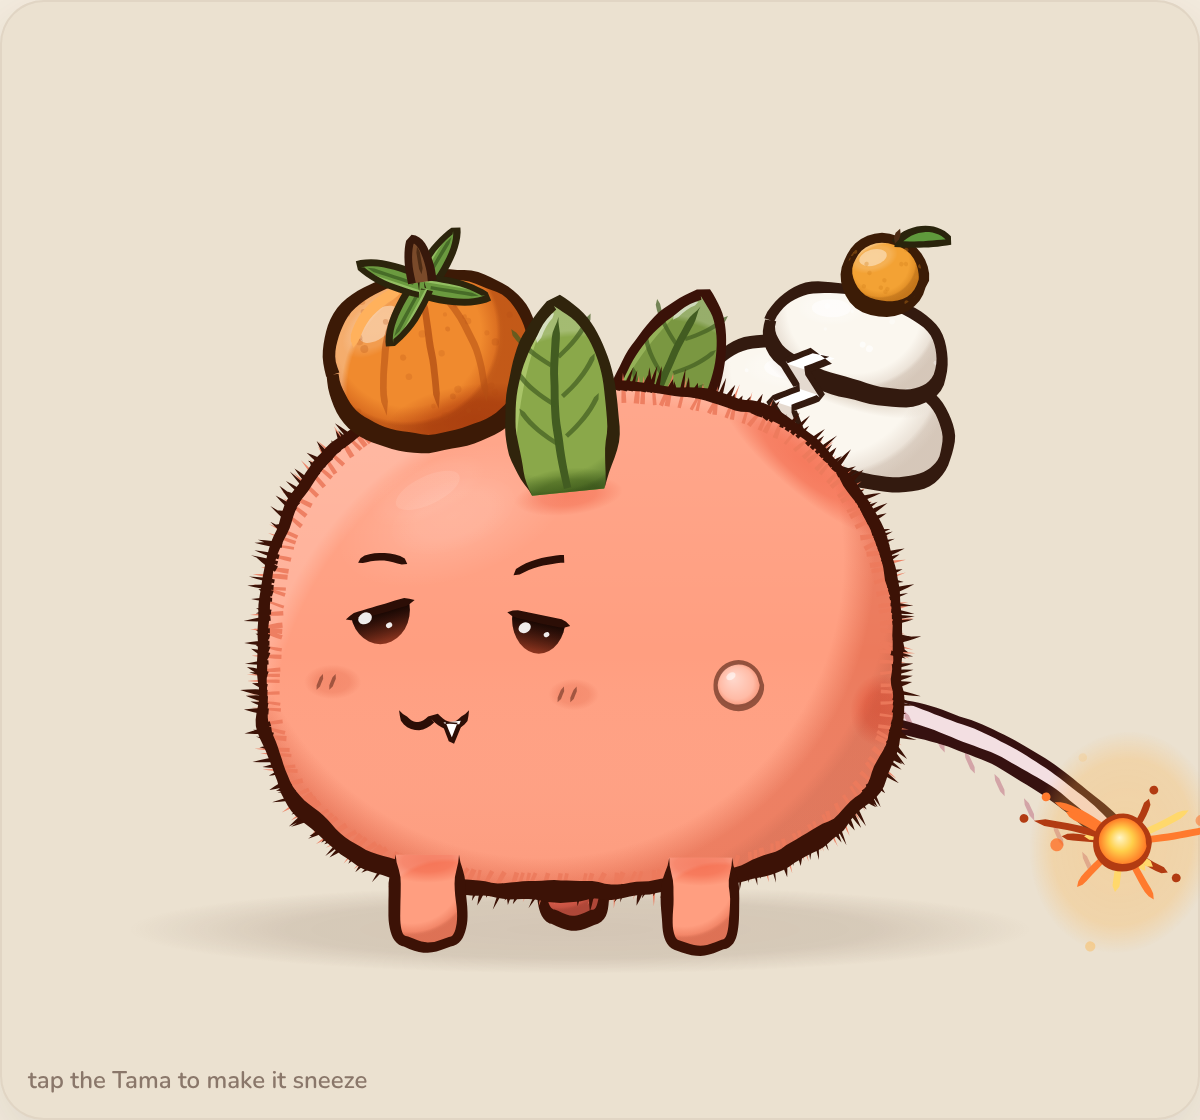
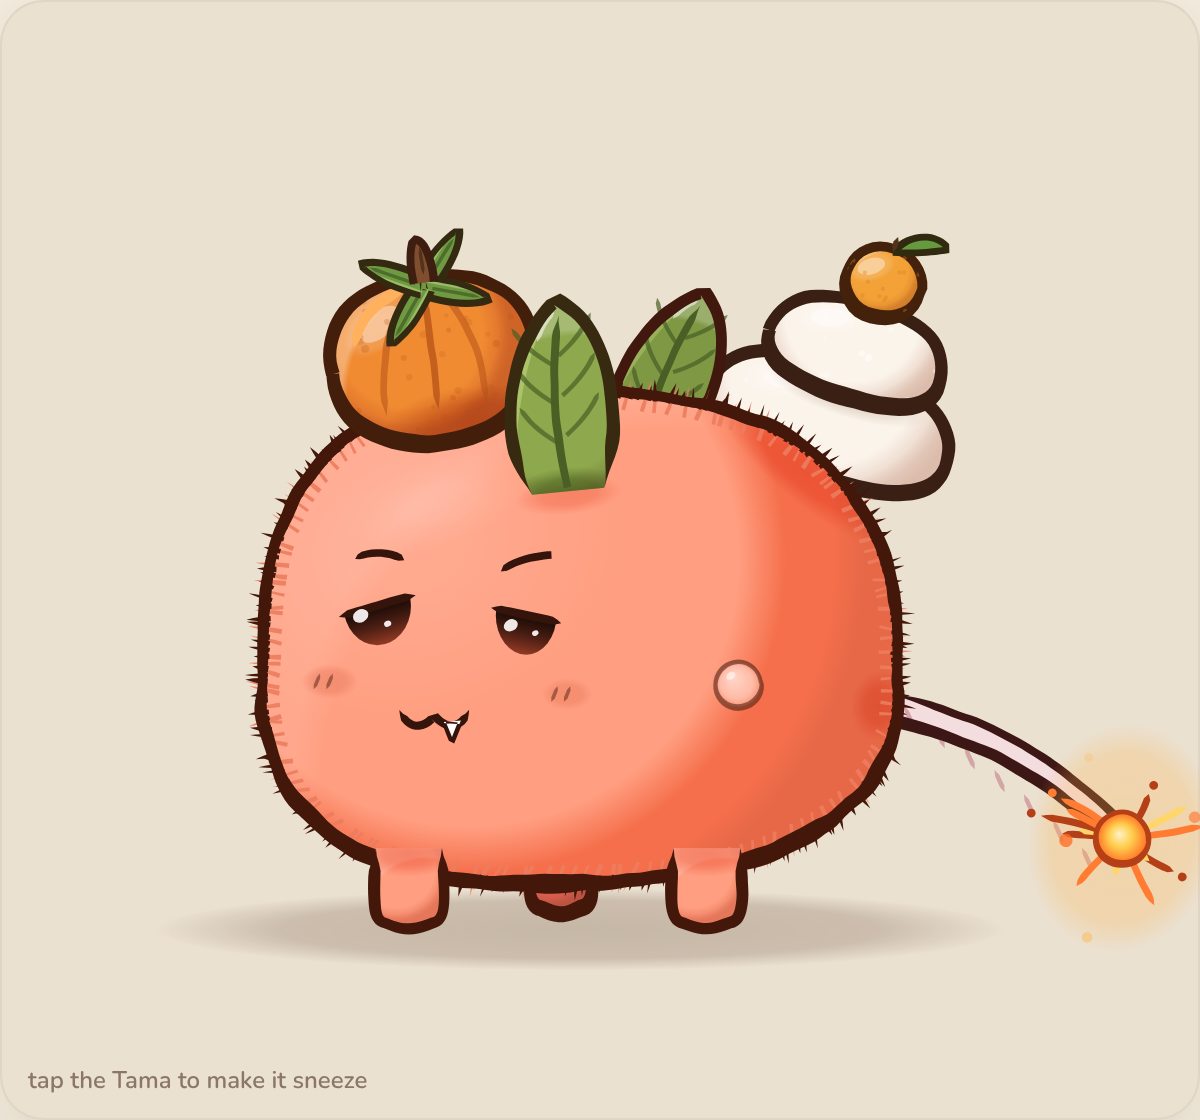
Push Tama finish toward the Axie reference
Egg-shaped body, one airbrushed saturated shade over the rear and belly
with a deeper underside band and a lit top-front, cleaner uniform ink,
nub legs, bigger eyes, palette-tinted part shadows and a faint body
glaze for colour cohesion. Updated preview renders.

Claude-Session: https://claude.ai/code/session_01UaA5G3pXeArrFX5fidoQVA

diff --git a/tama/index.html b/tama/index.html
@@ -146,7 +146,7 @@ class Shape {
 // Build a pressure ribbon Path2D around a flattened polyline.
 // opts: w (base width), heavy (extra weight on undersides 0..1), jitter (px), seed, taper ('none'|'both'|'start'|'end'), wobble (width noise 0..1)
 function ribbon(fl, opts = {}) {
-  const { w = 3, heavy = .5, jitter = .6, seed = 1, taper = 'none', wobble = .25, out = .55 } = opts;
+  const { w = 3, heavy = .5, jitter = .6, seed = 1, taper = 'none', wobble = .12, out = .55 } = opts;
   const pts = fl.pts, n = pts.length, L = fl.length || 1;
   const outer = [], inner = [];
   for (let i = 0; i < n; i++) {
@@ -171,6 +171,7 @@ function ribbon(fl, opts = {}) {
 }
 // memo for geometry built from stable keys
 const MEMO = new Map();
+let CUR_PAL = null;   // palette of the creature being drawn, lets part shadows share its hue
 function memo(key, build) { let v = MEMO.get(key); if (v === undefined) { v = build(); MEMO.set(key, v); } return v; }
 
 // ink an outline: fill a ribbon in colour
@@ -203,9 +204,10 @@ function crescent(ctx, clipPath, cx, cy, r, color, a = 1, ox = -.18, oy = -.22, 
 // Axie-style layered shading inside a clip: soft crescent, a harder core shadow a little further in,
 // a thin rim light on the lit side and (optionally) a crisp highlight patch with a soft glow.
 function shading(ctx, clip, cx, cy, r, o = {}) {
-  const { shade, deep, light = '#ffffff', ox = -.18, oy = -.28, inner = .64, soft = .14, coreA = .5, rimA = .28, hi = null, hiA = .32 } = o;
-  if (shade) crescent(ctx, clip, cx, cy, r, shade, 1, ox, oy, inner, soft);
-  if (deep) crescent(ctx, clip, cx, cy, r, deep, coreA, ox * 1.1, oy * 1.1, Math.min(.97, inner + .14), .035);
+  let { shade, deep, light = '#ffffff', ox = -.18, oy = -.28, inner = .64, soft = .14, coreA = .5, rimA = .28, hi = null, hiA = .32 } = o;
+  if (CUR_PAL) { if (shade) shade = mix(shade, CUR_PAL.shade, .16); if (deep) deep = mix(deep, CUR_PAL.shade, .16); }
+  if (shade) crescent(ctx, clip, cx, cy, r, shade, 1, ox, oy, inner, soft * 1.3);
+  if (deep) crescent(ctx, clip, cx, cy, r, deep, coreA * .75, ox * 1.1, oy * 1.1, Math.min(.97, inner + .14), .09);
   if (rimA > 0) crescent(ctx, clip, cx, cy, r, light, rimA, -ox * 1.2, -oy * 1.1, .9, .05);
   if (hi) { const [hx, hy, hrx, hry, hrot = -.55] = hi; ctx.save(); ctx.clip(clip); softEllipse(ctx, hx, hy, hrx * 1.8, hry * 1.9, light, hiA * .45, .3, hrot); ctx.fillStyle = alpha(light, hiA); ctx.beginPath(); ctx.ellipse(hx, hy, hrx, hry, hrot, 0, TAU); ctx.fill(); ctx.restore(); }
 }
@@ -254,9 +256,10 @@ function bodyPoint(th, edge, seed) {
   const c = Math.cos(th), s = Math.sin(th), n = 2.45;
   let x = Math.sign(c) * Math.pow(Math.abs(c), 2 / n);
   let y = Math.sign(s) * Math.pow(Math.abs(s), 2 / n);
-  const yy = y > 0 ? y * .9 : y * (1.02 + .035 * Math.max(0, -x));   // flatter, heavier bottom; head end a touch taller
+  let yy = y > 0 ? y * .9 : y * (1.03 + .04 * Math.max(0, -x));   // flatter, heavier bottom; head end a touch taller
+  yy *= 1 - .07 * (x + 1) / 2;                                         // egg: the rear sits a little lower than the head
   const xx = x * (1 + .07 * Math.max(0, y)) * (1 + .03 * Math.max(0, -y) * (1 - Math.abs(x))); // a little wider low down
-  let r = 1 + .012 * fbm(seed, th * 1.9 + 7, 2);           // hand-drawn irregularity
+  let r = 1 + .007 * fbm(seed, th * 1.9 + 7, 2);           // hand-drawn irregularity, kept subtle so the line stays confident
   if (edge === 'wool') r += .046 * Math.pow(Math.abs(Math.sin(th * 5 + .6)), .65) - .015;
   return { x: BODY.rx * xx * r, y: BODY.ry * yy * r };
 }
@@ -287,14 +290,14 @@ function makeAnchors() {
   const rear = surface(0.18);         // rear, just under the midline
   const headSide = { x: -4, y: -54, nx: -.12, ny: -.99, ang: -1.69, lean: -0.12 };   // on the near side of the head
   const headSideFar = { x: 20, y: -66, nx: .22, ny: -.97, ang: -1.35, lean: 0.22 };
-  const face = { x: -36, y: -4, eyeF: { x: -63, y: -14 }, eyeB: { x: -13, y: -11 }, mouth: { x: -46, y: 21 }, cheekF: { x: -78, y: 9 }, cheekB: { x: -2, y: 13 }, eyeR: 11 };
-  const legs = [{ x: -48, y: 72, far: false }, { x: -2, y: 66, far: true }, { x: 38, y: 73, far: false }];
+  const face = { x: -36, y: -4, eyeF: { x: -64, y: -15 }, eyeB: { x: -17, y: -12 }, mouth: { x: -46, y: 21 }, cheekF: { x: -79, y: 9 }, cheekB: { x: -4, y: 13 }, eyeR: 12.5 };
+  const legs = [{ x: -54, y: 70, far: false }, { x: -6, y: 66, far: true }, { x: 40, y: 70, far: false }];
   return { horn, topRear, rear, headSide, headSideFar, face, legs, spot: { x: 50, y: 10 }, ground: { x: 0, y: 84 } };
 }
 
 /* ---------- body painter ---------- */
 function drawLeg(ctx, leg, pal, body) {
-  const w = leg.far ? 18 : 20, h = leg.far ? 17 : 19, x = leg.x, y = leg.y;
+  const w = leg.far ? 18 : 21, h = leg.far ? 14 : 15, x = leg.x, y = leg.y;
   const base = leg.far ? shadeOf(pal.shade, .12) : pal.body, shade = leg.far ? shadeOf(pal.shade, .3) : pal.shade;
   const s = new Shape().M(x - w / 2, y - 8).C(x - w / 2 - 1, y + h * .5, x - w / 2 - 2, y + h, x - w / 2 + 3, y + h + 1)
     .C(x - 1, y + h + 3.5, x + 1, y + h + 3.5, x + w / 2 - 3, y + h + 1).C(x + w / 2 + 2, y + h, x + w / 2 + 1, y + h * .5, x + w / 2, y - 8);
@@ -303,7 +306,7 @@ function drawLeg(ctx, leg, pal, body) {
   const clip = new Path2D(p); clip.closePath();
   shading(ctx, clip, x, y + h * .4, h * 1.1, { shade, deep: mix(shade, pal.ink, .2), ox: -.25, oy: -.45, inner: .6, soft: .16, coreA: .4, rimA: .18 });
   if (!leg.far) { ctx.save(); ctx.clip(clip); ctx.globalCompositeOperation = 'multiply'; softEllipse(ctx, x, y - 6, w * .8, 7, pal.shade, .5, .5); ctx.restore(); }
-  ink(ctx, s, pal.inkBody, { w: 3.3, heavy: .6, jitter: .4, seed: 31 + x, taper: leg.far ? 'none' : 'both', step: 1.6 });
+  ink(ctx, s, pal.inkBody, { w: 3.6, heavy: .45, jitter: .25, seed: 31 + x, taper: leg.far ? 'none' : 'both', step: 1.6 });
 }
 function drawBody(ctx, genome, pal, anchors, seats, pose) {
   const edge = genome.bodyEdge, seed = genome.seed;
@@ -312,9 +315,12 @@ function drawBody(ctx, genome, pal, anchors, seats, pose) {
   // base
   ctx.fillStyle = pal.body; ctx.fill(clip);
   // matte two-tone: soft shade crescent on the bottom third, plus a faint top-light gradient
-  shading(ctx, clip, 0, 0, 100, { shade: pal.shade, deep: mix(pal.shade, pal.ink, .2), ox: -.12, oy: -.3, inner: .76, soft: .08, coreA: .38, rimA: .2, hi: [-48, -52, 11, 4.5, -.45], hiA: .09 });
-  ctx.save(); ctx.clip(clip); const g = ctx.createLinearGradient(0, -84, 0, 84); g.addColorStop(0, 'rgba(255,255,255,.10)'); g.addColorStop(.5, 'rgba(255,255,255,0)'); g.addColorStop(1, alpha(pal.shade, .18)); ctx.fillStyle = g; ctx.fillRect(-120, -100, 240, 200); ctx.restore();
-  sheen(ctx, clip, -40, -44, 38, 20, .12, -.35);
+  const shadeSat = adjust(pal.shade, -.02, .1);
+  ctx.save(); ctx.clip(clip); softEllipse(ctx, -52, -34, 70, 58, '#ffffff', .13, .75, -.3); ctx.restore();   // soft light on the top-front
+  crescent(ctx, clip, 0, 0, 100, shadeSat, 1, -.35, -.3, .68, .12);                       // airbrushed shade over the rear half and belly
+  crescent(ctx, clip, 0, 0, 100, mix(shadeSat, pal.ink, .18), .45, -.3, -.3, .88, .08);  // deeper band right at the underside
+  crescent(ctx, clip, 0, 0, 100, '#ffffff', .1, .32, .42, .9, .08);                       // thin rim light on the lit side
+  sheen(ctx, clip, -44, -48, 30, 14, .09, -.35);
   // tama spot: a small matte pearl on the rear flank
   const sp = anchors.spot;
   const pearl = new Path2D(); pearl.arc(sp.x, sp.y, 7, 0, TAU);
@@ -326,16 +332,16 @@ function drawBody(ctx, genome, pal, anchors, seats, pose) {
   for (const s of seats) cast(ctx, clip, s.x, s.y, s.rx * .9, s.ry * .8, pal.shade, s.a * 1.1, s.rot);
   // edge texture
   if (edge === 'fuzzy') {
-    ctx.fillStyle = alpha(pal.shade, .9); ctx.fill(memo('fzin:' + seed, () => flickPath(sil, { seed: seed + 11, spacing: 3.2, len: 4.5, inset: 5.5, lean: .5, w: 1.3, side: 1 })));
-    ctx.fillStyle = pal.inkBody; ctx.fill(memo('fzout:' + seed, () => flickPath(sil, { seed: seed + 12, spacing: 2.3, len: 5.5, inset: 1.6, lean: .55, w: 1.55 })));
-    ink(ctx, sil, pal.inkBody, { w: 3.2, heavy: .75, jitter: .9, seed, key: 'bodyink-f' + seed, wobble: .35 });
+    ctx.fillStyle = alpha(pal.shade, .9); ctx.fill(memo('fzin:' + seed, () => flickPath(sil, { seed: seed + 11, spacing: 4.2, len: 4, inset: 5.5, lean: .5, w: 1.2, side: 1 })));
+    ctx.fillStyle = pal.inkBody; ctx.fill(memo('fzout:' + seed, () => flickPath(sil, { seed: seed + 12, spacing: 2.9, len: 4.6, inset: 1.8, lean: .5, w: 1.45 })));
+    ink(ctx, sil, pal.inkBody, { w: 3.5, heavy: .5, jitter: .6, seed, key: 'bodyink-f' + seed, wobble: .25 });
   } else if (edge === 'wool') {
-    ink(ctx, sil, pal.inkBody, { w: 3.7, heavy: .55, jitter: .4, seed, key: 'bodyink-w' + seed, wobble: .25 });
+    ink(ctx, sil, pal.inkBody, { w: 3.9, heavy: .45, jitter: .3, seed, key: 'bodyink-w' + seed, wobble: .15 });
     // little curls just inside the bumps
     ctx.fillStyle = alpha(pal.inkBody, .5);
     ctx.fill(memo('wool:' + seed, () => { const p = new Path2D(); const r = rng(seed + 9); const pts = sil.pts; for (let i = 0; i < pts.length; i += 9) { const q = pts[i]; if (r() < .35) continue; const d = 6 + r() * 3; const cx = q.x - q.nx * d, cy = q.y - q.ny * d; const rr = 2.2 + r() * 1.4; const a0 = Math.atan2(q.ny, q.nx) + .9; p.moveTo(cx + Math.cos(a0) * rr, cy + Math.sin(a0) * rr); p.arc(cx, cy, rr, a0, a0 + 3.6); p.arc(cx, cy, rr - .9, a0 + 3.6, a0, true); p.closePath(); } return p; }));
   } else {
-    ink(ctx, sil, pal.inkBody, { w: 4.1, heavy: .7, jitter: .5, seed, key: 'bodyink-s' + seed });
+    ink(ctx, sil, pal.inkBody, { w: 4.2, heavy: .45, jitter: .3, seed, key: 'bodyink-s' + seed, wobble: .1 });
   }
   return clip;
 }
@@ -485,7 +491,7 @@ drawEars.calyxLeaf = part({ seat: { rx: 15, ry: 6, a: .35 }, both: true }, (ctx,
     brush(ctx, new Shape().M(0, 1).C(-2, -14, -1, -30, 2, -42), vein, 2, { taper: 'end', jitter: .2 });
     for (let i = 0; i < 3; i++) { const y = -10 - i * 10; brush(ctx, new Shape().M(-1, y).C(-5, y - 3, -8, y - 6, -10, y - 10), alpha(vein, .7), 1.2, { taper: 'end' }); brush(ctx, new Shape().M(1, y - 2).C(5, y - 5, 8, y - 8, 10, y - 12), alpha(vein, .7), 1.2, { taper: 'end' }); }
     brush(ctx, new Shape().M(-4, -36).C(-3, -39, -1, -42, 1, -43), 'rgba(255,255,255,.55)', 1.6);
-    ink(ctx, leaf, far ? pal.ink : inkFor(g, pal.ink), { w: 2.8, heavy: .4, jitter: .4, seed: 41, taper: 'both', step: 1.8 });
+    ink(ctx, leaf, far ? pal.ink : inkFor(g, pal.ink), { w: 3.1, heavy: .35, jitter: .3, seed: 41, taper: 'both', step: 1.8 });
   });
 });
 drawEars.daifuku = part({ seat: { rx: 17, ry: 6, a: .4 }, both: true }, (ctx, a, pal, t) => {
@@ -500,7 +506,7 @@ drawEars.daifuku = part({ seat: { rx: 17, ry: 6, a: .4 }, both: true }, (ctx, a,
     // powder dusting
     scatter(ctx, clip, [-16, -33, 16, 2], 77, 26, (x, y, r) => { ctx.fillStyle = 'rgba(255,255,255,.6)'; ctx.beginPath(); ctx.arc(x, y, .6 + r() * .8, 0, TAU); ctx.fill(); });
     ctx.save(); ctx.clip(clip); ctx.globalCompositeOperation = 'multiply'; softEllipse(ctx, 0, 2, 16, 6, shade, .6, .5); ctx.restore();
-    ink(ctx, ear, far ? pal.ink : inkFor('#c9a88a', pal.ink), { w: 2.9, heavy: .5, jitter: .5, seed: 43, taper: 'both', step: 1.8 });
+    ink(ctx, ear, far ? pal.ink : inkFor('#c9a88a', pal.ink), { w: 3.1, heavy: .4, jitter: .3, seed: 43, taper: 'both', step: 1.8 });
     brush(ctx, new Shape().M(-7, -4).C(-5, -9, -2, -13, 3, -16), alpha(inkFor('#c9a88a', pal.ink), .5), 1.4);
   });
 });
@@ -515,7 +521,7 @@ drawEars.ginkgo = part({ seat: { rx: 10, ry: 5, a: .35 }, both: true }, (ctx, a,
     const vcol = alpha(y3, .85);
     for (let i = 0; i < 9; i++) { const u = (i + .5) / 9; const ex = lerp(-21, 21, u), ey = -34 - 6 * Math.sin(u * Math.PI); brush(ctx, new Shape().M(0, 0).C(ex * .3, -12, ex * .6, -24, ex, ey), vcol, 1.3, { taper: 'end', jitter: .15 }); }
     brush(ctx, new Shape().M(0, 2).L(0, 9), '#7a5230', 2.6, { taper: 'end' });
-    ink(ctx, fan, far ? pal.ink : inkFor(y3, pal.ink), { w: 2.6, heavy: .4, jitter: .5, seed: 47, taper: 'both', step: 1.8 });
+    ink(ctx, fan, far ? pal.ink : inkFor(y3, pal.ink), { w: 3, heavy: .35, jitter: .3, seed: 47, taper: 'both', step: 1.8 });
   });
 });
 
@@ -535,7 +541,7 @@ drawHorn.persimmon = part({ seat: { rx: 24, ry: 8, a: .5 } }, (ctx, a, pal, t) =
     // lobe creases running down from the calyx
     for (const [x, c] of [[-13, .55], [12, .55], [0, .75]]) brush(ctx, new Shape().M(x * .35, -35).C(x * .8, -28, x * 1.05, -18, x * 1.0, -6), alpha(odeep, c), 1.7, { taper: 'both', jitter: .3 });
     brush(ctx, new Shape().M(-19, -24).C(-17, -31, -12, -35, -5, -36.5), olit, 2.6);
-    ink(ctx, fruit, inkFor(o, pal.ink), { w: 3, heavy: .55, jitter: .5, seed: 51, step: 1.8 });
+    ink(ctx, fruit, inkFor(o, pal.ink), { w: 3.2, heavy: .4, jitter: .3, seed: 51, step: 1.8 });
     // calyx: four sepals
     const g = '#6b9a3f', gd = '#476c28', gl = '#93bf62';
     for (const ang of [-.9, .3, 2.2, 3.6]) {
@@ -563,7 +569,7 @@ drawHorn.leek = part({ seat: { rx: 12, ry: 6, a: .45 } }, (ctx, a, pal, t) => {
     crescent(ctx, clip, 0, -16, 26, alpha('#b9c99a', 1), .8, -.3, -.1, .64, .2);
     for (let i = 0; i < 6; i++) { const x = -7.5 + i * 3; brush(ctx, new Shape().M(x, 3).C(x - .5, -10, x + .5, -22, x * .6, -34), alpha('#9fb57e', .55), .9, { taper: 'both' }); }
     sheen(ctx, clip, -4, -16, 2.5, 14, .35, 0);
-    ink(ctx, stalk, inkc, { w: 2.7, heavy: .3, jitter: .4, seed: 61, taper: 'both', step: 1.6 });
+    ink(ctx, stalk, inkc, { w: 3, heavy: .3, jitter: .3, seed: 61, taper: 'both', step: 1.6 });
     // leaves: two blades fanning from the top
     const blades = [[-1, -38, -16 + sway * 14, -70, -8 + sway * 10, -80, 1], [3, -38, 20 + sway * 16, -66, 24 + sway * 16, -74, -1], [1, -40, 2 + sway * 14, -80, 5 + sway * 16, -92, 0]];
     for (const [x0, y0, cx1, cy1, tx, ty, side] of blades) {
@@ -601,7 +607,7 @@ drawHorn.chochin = part({ seat: { rx: 9, ry: 5, a: .45 }, animated: true }, (ctx
     sheen(ctx, bc, -6, 16, 4, 9, .3, 0); brush(ctx, new Shape().M(-8, 14).C(-8, 18, -7, 24, -6, 28), rlit, 2);
     ctx.fillStyle = '#fff5e0'; ctx.beginPath(); ctx.arc(0, 22, 4.6, 0, TAU); ctx.fill();
     brush(ctx, new Shape().M(-2.2, 20).C(-2.6, 23.5, .5, 25.5, 2.4, 23).C(3, 21.5, 1.5, 19.6, -.6, 19.6), '#c9341f', 1.3, { taper: 'end' });
-    ink(ctx, body, inkFor(red, pal.ink), { w: 2.6, heavy: .45, jitter: .35, seed: 73, step: 1.5 });
+    ink(ctx, body, inkFor(red, pal.ink), { w: 2.9, heavy: .4, jitter: .25, seed: 73, step: 1.5 });
     for (const y of [8, 36]) { const ring = new Shape().M(-7.5, y - 1.5).C(-5, y - 2.5, 5, y - 2.5, 7.5, y - 1.5).C(5, y + 1.5, -5, y + 1.5, -7.5, y - 1.5); ctx.fillStyle = pal.ink; ctx.fill(ring.path()); }
     for (const dx of [-1.6, 0, 1.6]) brush(ctx, new Shape().M(dx * .4, 38).C(dx * .8, 42, dx, 45, dx * 1.4, 49), '#d9a63c', 1.5, { taper: 'end' });
     ctx.fillStyle = '#b8862a'; ctx.beginPath(); ctx.ellipse(0, 39, 2.6, 1.6, 0, 0, TAU); ctx.fill();
@@ -620,19 +626,12 @@ drawBack.kagamiMochi = part({ seat: { rx: 30, ry: 9, a: .45 }, behind: true }, (
       ctx.fillStyle = w; ctx.fill(c);
       shading(ctx, c, cx, cy - ry * .2, rx * 1.05, { shade: wsh, deep: wdeep, ox: -.15, oy: -.35, inner: .58, soft: .22, coreA: .4, rimA: .35, hi: [cx - rx * .4, cy - ry * .85, rx * .22, ry * .25, -.3], hiA: .55 });
       scatter(ctx, c, [cx - rx, cy - ry * 1.5, cx + rx, cy + ry], seed, 16, (x, y, r) => { ctx.fillStyle = alpha('#ffffff', .35 + r() * .3); ctx.beginPath(); ctx.arc(x, y, .4 + r() * .5, 0, TAU); ctx.fill(); });
-      ink(ctx, s, inkw, { w: 2.8, heavy: .55, jitter: .5, seed, step: 1.8 });
+      ink(ctx, s, inkw, { w: 3.1, heavy: .4, jitter: .3, seed, step: 1.8 });
       return c;
     };
     const d1 = disc(0, -8, 31, 11, 81);
     cast(ctx, d1, 2, -18, 21, 6, wdeep, .55);
     disc(1, -27, 22, 9, 82);
-    // shide: the zigzag paper strip hanging down the front
-    const L = [[-9, -23], [-15, -18], [-9, -13], [-15, -8], [-9, -3]];
-    const zz = new Shape().M(L[0][0], L[0][1]); for (let i = 1; i < L.length; i++) zz.L(L[i][0], L[i][1]);
-    for (let i = L.length - 1; i >= 0; i--) zz.L(L[i][0] + 6, L[i][1] + (i === L.length - 1 ? 2.5 : 0)); zz.Z();
-    const zp = zz.path(); ctx.fillStyle = '#ffffff'; ctx.fill(zp);
-    ctx.save(); ctx.clip(zp); ctx.fillStyle = alpha(wsh, .8); ctx.fillRect(-20, -18, 16, 5); ctx.fillRect(-20, -8, 16, 5.5); ctx.restore();
-    ink(ctx, zz, inkw, { w: 1.5, heavy: .2, jitter: .1, seed: 86, step: 1.2, wobble: .1 });
     // the daidai on top
     const oc = '#f3a234', osh = '#d4801c';
     const orange = Shape.ellipse(2, -47, 9.5, 8.5);
@@ -658,7 +657,7 @@ drawBack.onigiri = part({ seat: { rx: 28, ry: 9, a: .45 }, behind: true }, (ctx,
     const np = nori.path(); const nc = new Path2D(np); nc.closePath();
     ctx.fillStyle = '#243122'; ctx.fill(nc);
     ctx.save(); ctx.clip(nc); ctx.fillStyle = 'rgba(120,150,90,.25)'; for (let i = 0; i < 6; i++) { ctx.fillRect(-32, -16 + i * 4.2, 64, 1.1); } softEllipse(ctx, -12, -8, 10, 5, '#6f8f55', .35, .5); ctx.restore();
-    ink(ctx, tri, inkr, { w: 2.8, heavy: .5, jitter: .5, seed: 92, step: 1.8 });
+    ink(ctx, tri, inkr, { w: 3.1, heavy: .4, jitter: .3, seed: 92, step: 1.8 });
     ink(ctx, nori, inkFor('#243122', pal.ink), { w: 2.2, heavy: .3, jitter: .4, seed: 93, step: 1.8 });
   });
 });
@@ -828,7 +827,7 @@ function triggerSneeze() { if (sneeze.active) return; sneeze.active = true; snee
 function frame(now) {
   const f0 = performance.now();
   const t = now / 1000; const dt = clamp((now - lastTime) / 1000, 0, .05); lastTime = now;
-  const pal = expandPalette(genome.palette);
+  const pal = expandPalette(genome.palette); CUR_PAL = pal;
   const anchors = makeAnchors();
   // ----- idle: breathing, blink
   let sy = 1, sx = 1, rot = 0, squint = 0, tight = false, mouthOverride = null;
@@ -864,7 +863,7 @@ function frame(now) {
   ctx.scale(k, k);
   // paper + ground shadow
   const gsq = 1 + (sx - 1) * .6;
-  ctx.save(); ctx.translate(VIEW.cx, VIEW.cy + 84 * VIEW.scale + 6); ctx.scale(gsq, 1); softEllipse(ctx, 0, 0, 150 * VIEW.scale * .95, 14 * VIEW.scale, '#5a3b2a', .16, .35); ctx.restore();
+  ctx.save(); ctx.translate(VIEW.cx, VIEW.cy + 84 * VIEW.scale + 6); ctx.scale(gsq, 1); softEllipse(ctx, 0, 0, 150 * VIEW.scale * .9, 13 * VIEW.scale, '#4a2e20', .24, .3); ctx.restore();
   ctx.translate(VIEW.cx, VIEW.cy); ctx.scale(VIEW.scale, VIEW.scale);
   // squash and stretch around the ground contact, tilt around the same point
   ctx.translate(0, 84); ctx.rotate(rot); ctx.scale(sx, sy); ctx.translate(0, -84);
@@ -891,6 +890,8 @@ function frame(now) {
   parts.eyes(ctx, anchors, pal, t);
   if (mouthOverride) openMouth(ctx, pal, anchors.face.mouth.x - 1, anchors.face.mouth.y + 1, mouthOverride.w, mouthOverride.h, mouthOverride.h > 3.5);
   else parts.mouth(ctx, anchors, pal, t);
+  // a faint glaze of the body colour over everything drawn so far ties the parts to the palette
+  ctx.save(); ctx.globalCompositeOperation = 'source-atop'; ctx.fillStyle = alpha(pal.body, .035); ctx.fillRect(-400, -400, 800, 800); ctx.restore();
   // sneeze stars (drawn in body space so they ride the squash a little, then settle)
   for (let i = sneeze.stars.length - 1; i >= 0; i--) {
     const s = sneeze.stars[i]; s.age += dt; if (s.age > s.life) { sneeze.stars.splice(i, 1); continue; }
